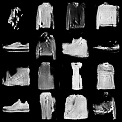
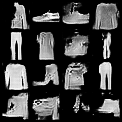
version3

diff --git a/train.py b/train.py
@@ -6,7 +6,8 @@ from torchvision import datasets, transforms
 from torch.utils.data import DataLoader
 
 from models.generator import Generator
-from models.discriminator import Discriminator
+# from models.discriminator import Discriminator
+from models.discriminator import Critic
 from utils.save_images import save_generated_images
 
 
@@ -40,43 +41,96 @@ def main():
     )
 
     generator = Generator(latent_dim=latent_dim).to(device)
-    discriminator = Discriminator().to(device)
+    # discriminator = Discriminator().to(device)
+    critic = Critic().to(device)
     generator.apply(weights_init)
-    discriminator.apply(weights_init)
-    criterion = nn.BCELoss()
+    # discriminator.apply(weights_init)
+    critic.apply(weights_init)
+    # criterion = nn.BCELoss()
 
-    optimizer_g = optim.Adam(generator.parameters(), lr=lr, betas=(0.5, 0.999))
-    optimizer_d = optim.Adam(discriminator.parameters(), lr=lr, betas=(0.5, 0.999))
-
+    # optimizer_g = optim.Adam(generator.parameters(), lr=lr, betas=(0.5, 0.999))
+    # optimizer_d = optim.Adam(discriminator.parameters(), lr=lr, betas=(0.5, 0.999))
+    optimizer_g = optim.RMSprop(generator.parameters(), lr=lr)
+    optimizer_c = optim.RMSprop(critic.parameters(), lr=lr)
     fixed_noise = torch.randn(16, latent_dim, 1, 1, device=device)
+    n_critic = 5
+    # for epoch in range(epochs):
+    #     for batch_idx, (real_images, _) in enumerate(dataloader):
+    #         real_images = real_images.to(device)
+    #         batch_size_curr = real_images.size(0)
+    #
+    #         real_labels = torch.ones(batch_size_curr, device=device)
+    #         fake_labels = torch.zeros(batch_size_curr, device=device)
+    #
+    #         # train discriminator
+    #         noise = torch.randn(batch_size_curr, latent_dim, 1, 1, device=device)
+    #         fake_images = generator(noise)
+    #
+    #         d_real = discriminator(real_images)
+    #         loss_d_real = criterion(d_real, real_labels)
+    #
+    #         d_fake = discriminator(fake_images.detach())
+    #         loss_d_fake = criterion(d_fake, fake_labels)
+    #
+    #         loss_d = loss_d_real + loss_d_fake
+    #
+    #         optimizer_d.zero_grad()
+    #         loss_d.backward()
+    #         optimizer_d.step()
+    #
+    #         # train generator
+    #         output = discriminator(fake_images)
+    #         loss_g = criterion(output, real_labels)
+    #
+    #         optimizer_g.zero_grad()
+    #         loss_g.backward()
+    #         optimizer_g.step()
+    #
+    #         if batch_idx % 100 == 0:
+    #             print(
+    #                 f"Epoch [{epoch+1}/{epochs}] "
+    #                 f"Batch [{batch_idx}/{len(dataloader)}] "
+    #                 f"Loss D: {loss_d.item():.4f}, Loss G: {loss_g.item():.4f}"
+    #             )
+    #
+        # with torch.no_grad():
+        #     fake_samples = generator(fixed_noise)
+        #     save_generated_images(fake_samples, epoch + 1)
+    n_critic = 5  # 每次训练5次critic
 
     for epoch in range(epochs):
         for batch_idx, (real_images, _) in enumerate(dataloader):
+
             real_images = real_images.to(device)
             batch_size_curr = real_images.size(0)
 
-            real_labels = torch.ones(batch_size_curr, device=device)
-            fake_labels = torch.zeros(batch_size_curr, device=device)
+            # ---------------------
+            # Train Critic
+            # ---------------------
+            for _ in range(n_critic):
+                noise = torch.randn(batch_size_curr, latent_dim, 1, 1, device=device)
+                fake_images = generator(noise)
 
-            # train discriminator
+                critic_real = critic(real_images)
+                critic_fake = critic(fake_images.detach())
+
+                loss_c = -(torch.mean(critic_real) - torch.mean(critic_fake))
+
+                optimizer_c.zero_grad()
+                loss_c.backward()
+                optimizer_c.step()
+
+                # weight clipping
+                for p in critic.parameters():
+                    p.data.clamp_(-0.01, 0.01)
+
+            # ---------------------
+            # Train Generator
+            # ---------------------
             noise = torch.randn(batch_size_curr, latent_dim, 1, 1, device=device)
             fake_images = generator(noise)
 
-            d_real = discriminator(real_images)
-            loss_d_real = criterion(d_real, real_labels)
-
-            d_fake = discriminator(fake_images.detach())
-            loss_d_fake = criterion(d_fake, fake_labels)
-
-            loss_d = loss_d_real + loss_d_fake
-
-            optimizer_d.zero_grad()
-            loss_d.backward()
-            optimizer_d.step()
-
-            # train generator
-            output = discriminator(fake_images)
-            loss_g = criterion(output, real_labels)
+            loss_g = -torch.mean(critic(fake_images))
 
             optimizer_g.zero_grad()
             loss_g.backward()
@@ -84,18 +138,17 @@ def main():
 
             if batch_idx % 100 == 0:
                 print(
-                    f"Epoch [{epoch+1}/{epochs}] "
+                    f"Epoch [{epoch + 1}/{epochs}] "
                     f"Batch [{batch_idx}/{len(dataloader)}] "
-                    f"Loss D: {loss_d.item():.4f}, Loss G: {loss_g.item():.4f}"
+                    f"Loss C: {loss_c.item():.4f}, Loss G: {loss_g.item():.4f}"
                 )
-
-        with torch.no_grad():
-            fake_samples = generator(fixed_noise)
-            save_generated_images(fake_samples, epoch + 1)
+            with torch.no_grad():
+                fake_samples = generator(fixed_noise)
+                save_generated_images(fake_samples, epoch + 1)
 
     os.makedirs("checkpoints", exist_ok=True)
-    torch.save(generator.state_dict(), "checkpoints/generator.pth")
-    torch.save(discriminator.state_dict(), "checkpoints/discriminator.pth")
+    torch.save(generator.state_dict(), "checkpoints/generator_critic.pth")
+    torch.save(critic.state_dict(), "checkpoints/critic.pth")
     print("Training finished.")
 
 def weights_init(m):

diff --git a/models/discriminator.py b/models/discriminator.py
@@ -1,7 +1,33 @@
+# import torch.nn as nn
+#
+#
+# class Discriminator(nn.Module):
+#     def __init__(self, img_channels=1, feature_d=64):
+#         super().__init__()
+#
+#         self.net = nn.Sequential(
+#             nn.Conv2d(img_channels, feature_d, 4, 2, 1, bias=False),
+#             nn.LeakyReLU(0.2, inplace=True),
+#
+#             nn.Conv2d(feature_d, feature_d * 2, 4, 2, 1, bias=False),
+#             nn.BatchNorm2d(feature_d * 2),
+#             nn.LeakyReLU(0.2, inplace=True),
+#
+#             nn.Conv2d(feature_d * 2, feature_d * 4, 3, 2, 1, bias=False),
+#             nn.BatchNorm2d(feature_d * 4),
+#             nn.LeakyReLU(0.2, inplace=True),
+#
+#             nn.Conv2d(feature_d * 4, 1, 4, 1, 0, bias=False),
+#             nn.Sigmoid()
+#         )
+#
+#     def forward(self, x):
+#         return self.net(x).view(-1)
+
 import torch.nn as nn
 
 
-class Discriminator(nn.Module):
+class Critic(nn.Module):
     def __init__(self, img_channels=1, feature_d=64):
         super().__init__()
 
@@ -17,8 +43,7 @@ class Discriminator(nn.Module):
             nn.BatchNorm2d(feature_d * 4),
             nn.LeakyReLU(0.2, inplace=True),
 
-            nn.Conv2d(feature_d * 4, 1, 4, 1, 0, bias=False),
-            nn.Sigmoid()
+            nn.Conv2d(feature_d * 4, 1, 4, 1, 0, bias=False)
         )
 
     def forward(self, x):
